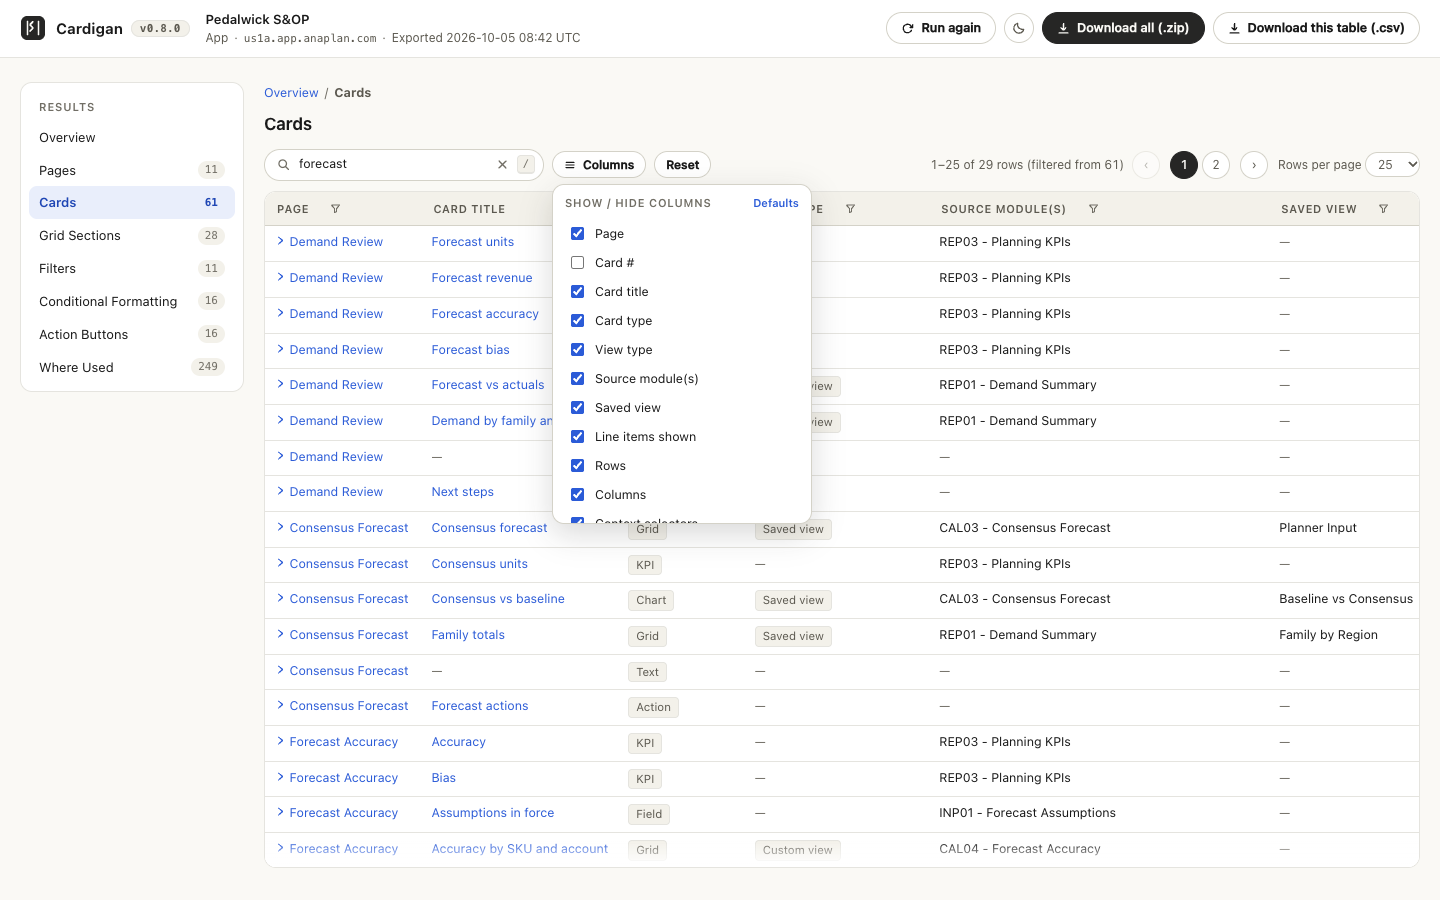
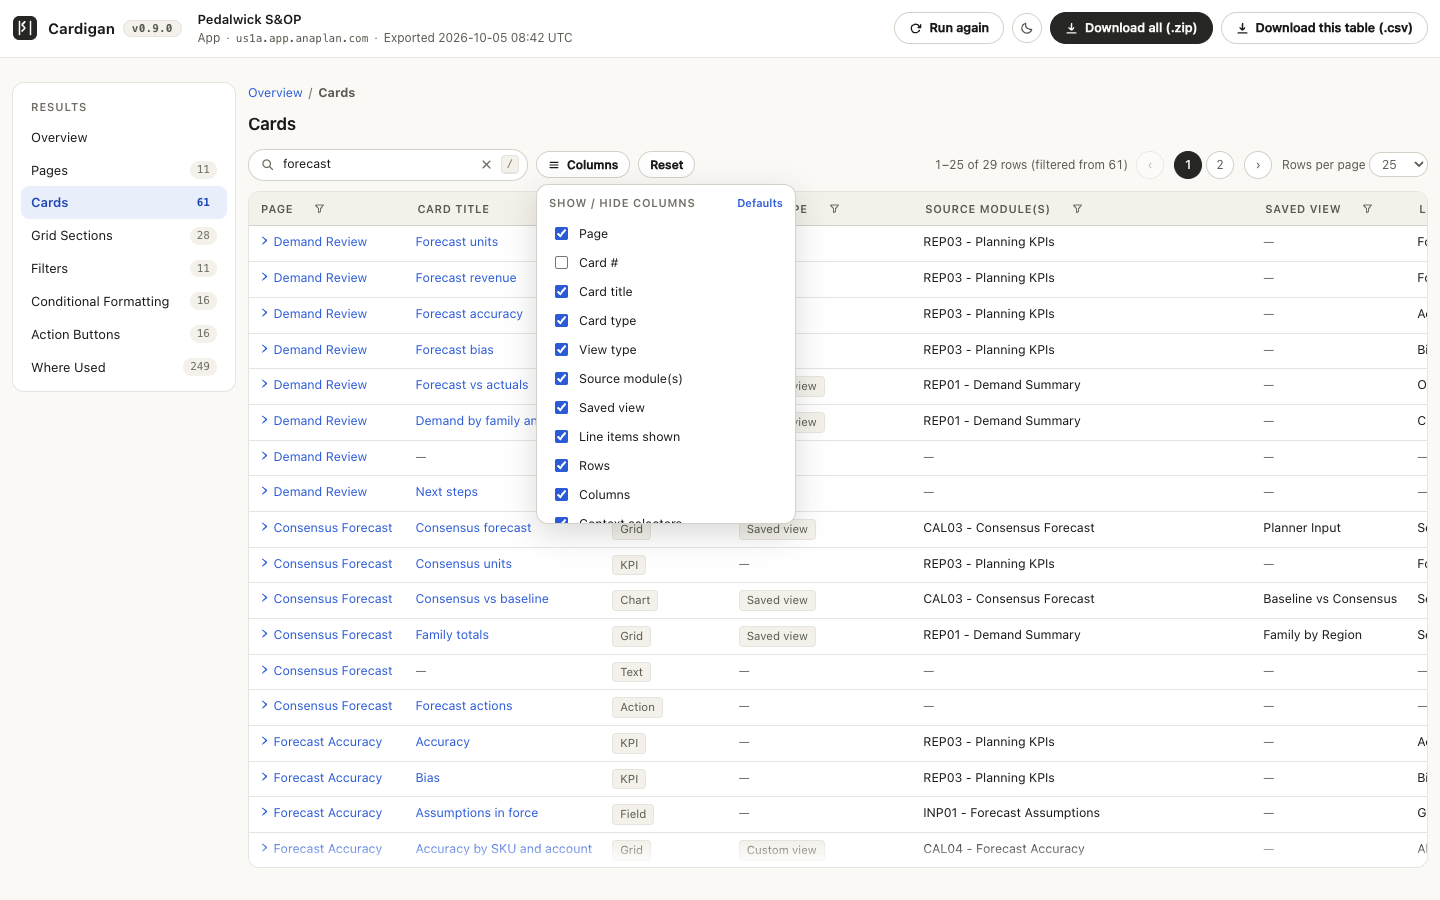
docs: retake the README's pictures for 0.9.0 and show Dynamic Cell Access
The model's three pictures stand side by side, and the sentence about its tables says that the thirteenth is made from Line Items.

diff --git a/README.md b/README.md
@@ -41,7 +41,7 @@ Cardigan reads every published page of the app. The **Overview** counts each tab
 
 ### For a model
 
-Open the model in Model Building; the classic model page opened on its own works too. Cardigan reads the Model settings into thirteen tables, in Anaplan's order: Model Calendar, Time Ranges, Versions, General Lists, Modules, Line Items, Dynamic Cell Access, Processes, Imports, Import Data Sources, Exports, Other Actions and Source Models.
+Open the model in Model Building; the classic model page opened on its own works too. Cardigan reads the Model settings into twelve tables, in Anaplan's order, and makes a thirteenth, Dynamic Cell Access, from Line Items: Model Calendar, Time Ranges, Versions, General Lists, Modules, Line Items, Dynamic Cell Access, Processes, Imports, Import Data Sources, Exports, Other Actions and Source Models.
 
 - Each grid's CSV file is laid out as Anaplan's own export of that grid, with formats and summaries as JSON.
 - **Line Items** covers every module, and its file adds three columns: **Ratio Numerator**, **Ratio Denominator** and **Format List**. The page lists each line item beside its module; module rows stay in the CSV.
@@ -52,13 +52,17 @@ Open the model in Model Building; the classic model page opened on its own works
 
 <table>
   <tr>
-    <td width="50%" valign="top">
-      <a href="docs/images/model-overview.png"><img src="docs/images/model-overview.png" width="400" alt="The results page for a model: the Overview, with the number of rows in each Model settings table and the details of the export"></a><br>
+    <td width="33%" valign="top">
+      <a href="docs/images/model-overview.png"><img src="docs/images/model-overview.png" width="264" alt="The results page for a model: the Overview, with the number of rows in each table and the details of the export"></a><br>
       A model's Overview.
     </td>
-    <td width="50%" valign="top">
-      <a href="docs/images/model-line-items.png"><img src="docs/images/model-line-items.png" width="400" alt="A model's Line Items table in the dark theme: each line item with its module, its format in words, its formula and its summary"></a><br>
+    <td width="33%" valign="top">
+      <a href="docs/images/model-line-items.png"><img src="docs/images/model-line-items.png" width="264" alt="A model's Line Items table in the dark theme: each line item with its module, its format in words, its formula and its summary"></a><br>
       Line Items, in the dark theme.
+    </td>
+    <td width="33%" valign="top">
+      <a href="docs/images/model-dynamic-cell-access.png"><img src="docs/images/model-dynamic-cell-access.png" width="264" alt="A model's Dynamic Cell Access table: each access driver with the line items it controls, one row for each use, marked Read or Write"></a><br>
+      Dynamic Cell Access.
     </td>
   </tr>
 </table>
@@ -110,6 +114,7 @@ Closing the results page stops the reading.
 
 ### The results page
 
+- The page is as wide as the window: the navigation stands at the left, and the table or the map takes the rest.
 - The search box looks in every column, shown or hidden. Press `/` to reach it.
 - Click a column's name to sort. A column with 2 to 30 different values also has a filter.
 - **Columns** picks the columns shown. An app's ID columns, **Card #** and **Section #** start hidden.
@@ -157,6 +162,7 @@ Closing the results page stops the reading.
 - A button whose import, export or process is not in the model keeps its card label; **Name source** says so.
 - Where two pages share a name, a count in **Where Used** can read "2+" (at least 2), and some links are plain text.
 - A Model settings grid of more than 250,000 rows is not exported; the Overview says which.
+- In **Dynamic Cell Access**, a driver that cannot be matched to a line item is listed last, as Line Items writes it, and the page says how many there are. The table is not made when Line Items was not exported.
 - The model map takes each link from a column of the export that names another object, such as **Referenced By**. It shows formulas as text and does not work them out.
 - The map draws sections, modules, line items and the lists that formulas name. Processes and actions are not drawn; a module's details name the imports that load into it.
 - **About this map**, at the foot of the map, says what the map leaves out and could not place for this model, such as a line item named twice in one module.
